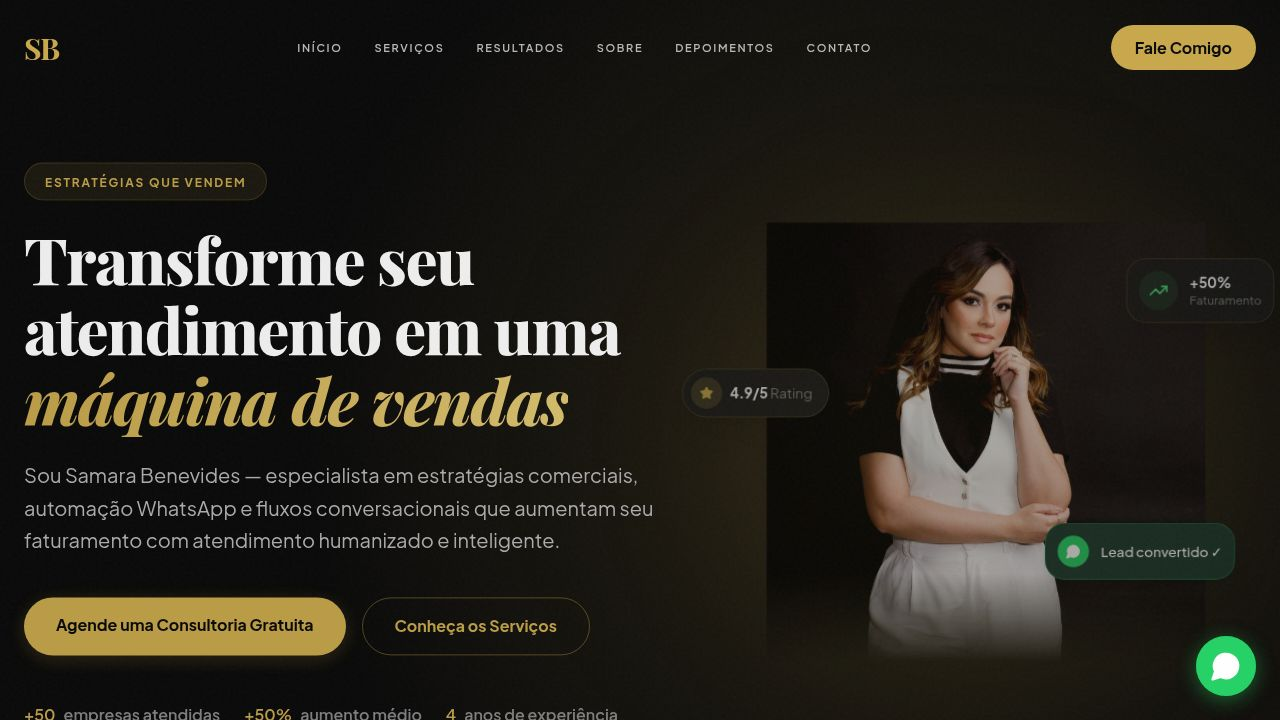
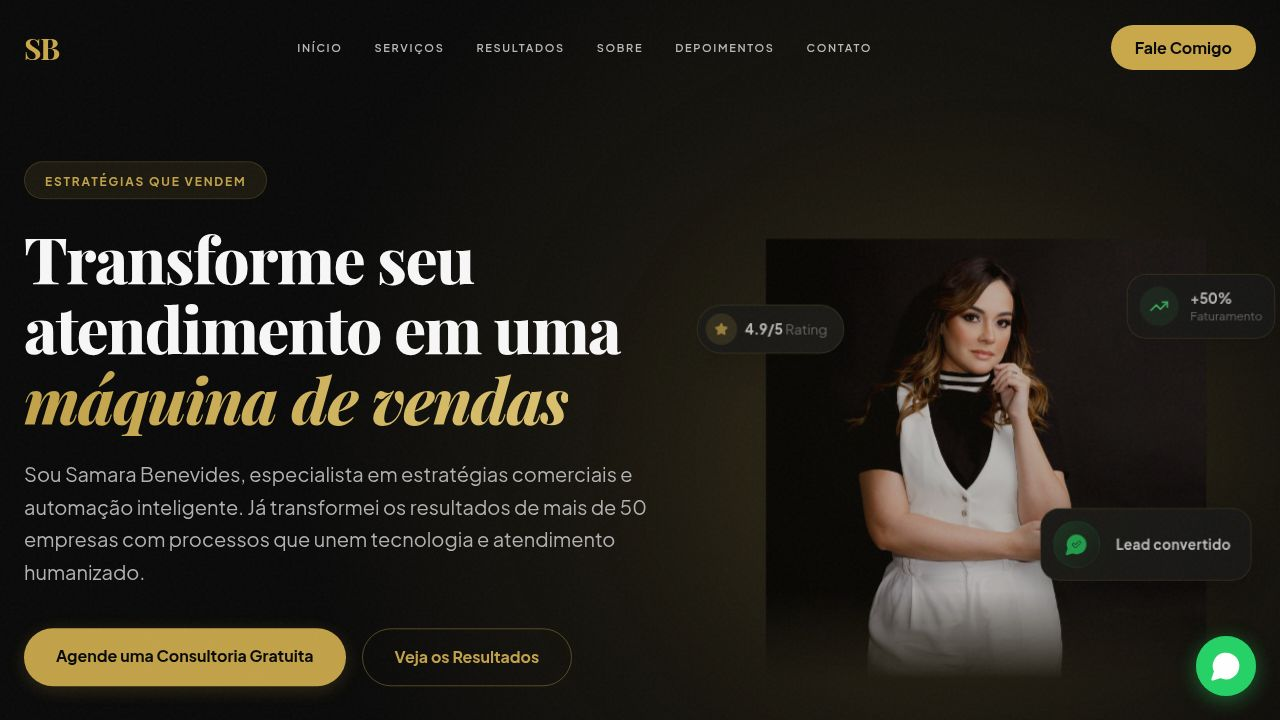
Update hero section to refine lead conversion badge and improve visual appeal
Refactor HeroSection.tsx to update the lead converted badge, replacing the green WhatsApp-style box with a premium dark card featuring a gold border and a WhatsApp icon. Also updates the `opengraph.jpg` file.

Replit-Commit-Author: Agent
Replit-Commit-Session-Id: 135a06c8-4e50-4622-997c-e011bf60505a
Replit-Commit-Checkpoint-Type: full_checkpoint
Replit-Commit-Event-Id: 9eb2d949-53ed-4aab-95a7-51f2191d3bc0
Replit-Commit-Screenshot-Url: https://storage.googleapis.com/screenshot-production-us-central1/b6f0e479-c8e2-4386-9883-291b4c389f50/135a06c8-4e50-4622-997c-e011bf60505a/0oYRC4H
Replit-Helium-Checkpoint-Created: true

diff --git a/client/src/components/sections/HeroSection.tsx b/client/src/components/sections/HeroSection.tsx
@@ -146,15 +146,11 @@ export default function HeroSection() {
               </div>
 
               <div className="hidden lg:flex absolute right-0 bottom-24 animate-float bg-[#1A1A1A] border border-[#C9A84C]/20 rounded-xl p-3 pr-5 items-center gap-4 shadow-[0_12px_40px_rgba(0,0,0,0.5)] z-20">
-                <div className="w-12 h-12 rounded-full bg-gradient-to-br from-[#C9A84C]/20 to-transparent flex items-center justify-center text-[#C9A84C] border border-[#C9A84C]/10">
-                  <UserCheck size={24} />
+                <div className="w-12 h-12 rounded-full bg-gradient-to-br from-[#25D366]/20 to-transparent flex items-center justify-center text-[#25D366] border border-[#25D366]/10">
+                  <svg viewBox="0 0 24 24" width="24" height="24" stroke="currentColor" strokeWidth="2" fill="none" strokeLinecap="round" strokeLinejoin="round"><path d="M7.9 20A9 9 0 1 0 4 16.1L2 22Z" fill="currentColor"></path><path d="m9 12 2 2 4-4" stroke="#0A0A0A" strokeWidth="3"></path><path d="m9 12 2 2 4-4" stroke="#25D366" strokeWidth="2"></path></svg>
                 </div>
                 <div>
                   <div className="text-white font-bold text-sm tracking-wide">Lead convertido</div>
-                  <div className="text-[#4ADE80] text-xs font-semibold flex items-center gap-1.5 mt-1">
-                    <CheckCircle2 size={14} />
-                    Negócio fechado
-                  </div>
                 </div>
               </div>
 
